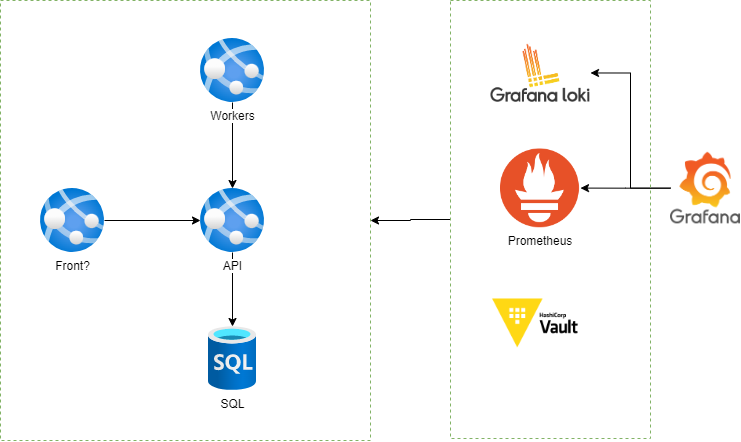
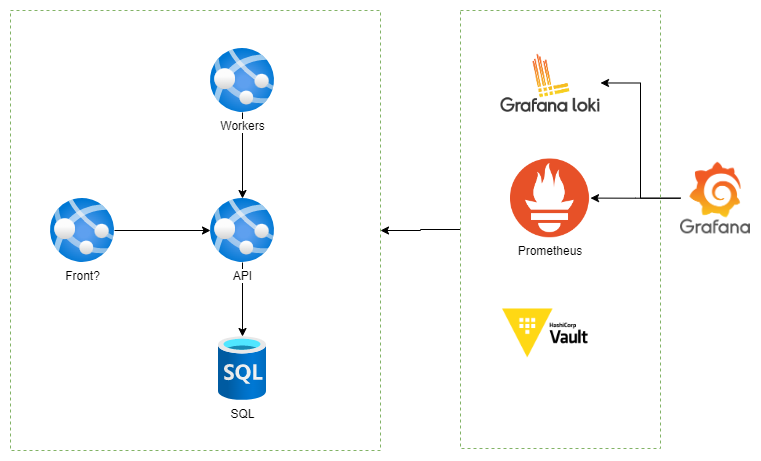
Added feature diagram

diff --git a/README.md b/README.md
@@ -16,6 +16,8 @@ Inspiration: https://moneymanagerex.org/
 - [ ] Budget planner
 - [ ] Weekly/Monthly summaries send to email
 
+![features](docs/features.drawio.png)
+
 ### Nice to have
 
 - [ ] Login via Google/Microsoft
@@ -25,8 +27,8 @@ Inspiration: https://moneymanagerex.org/
 
 | Name                                                            | Deadline   | Status      |
 | --------------------------------------------------------------- | ---------- | ----------- |
-| README + plan                                                   | 2024.03.04 | In progress |
-| Features without dashboards & budget planner & files (API only) | 2024.03.15 | Todo        |
+| README + plan                                                   | 2024.03.04 | ✅ Done     |
+| Features without dashboards & budget planner & files (API only) | 2024.03.15 | In progress |
 | CI/CD + IaC (containers, networking, database)                  | 2024.03.22 | Todo        |
 | Features (files, summaries)                                     | 2024.03.30 | Todo        |
 | Observability + Security                                        | 2024.04.14 | Todo        |
